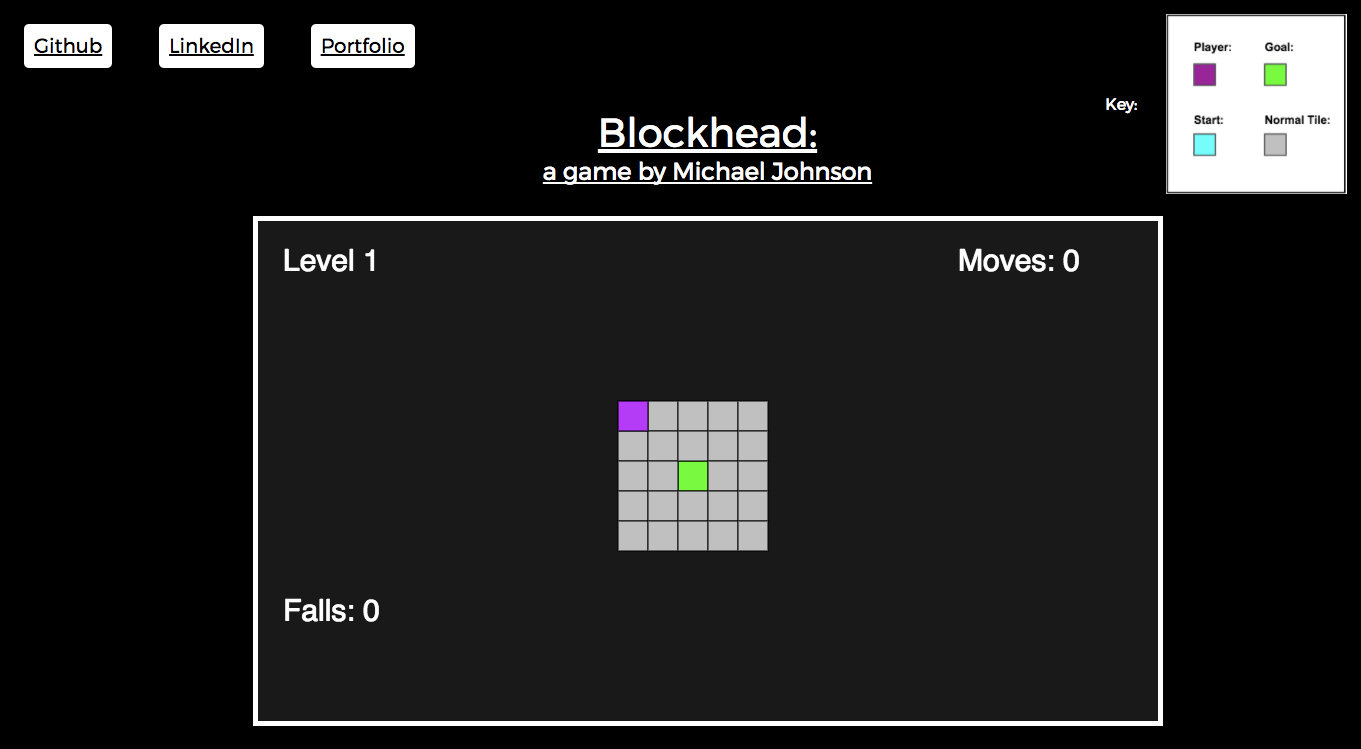
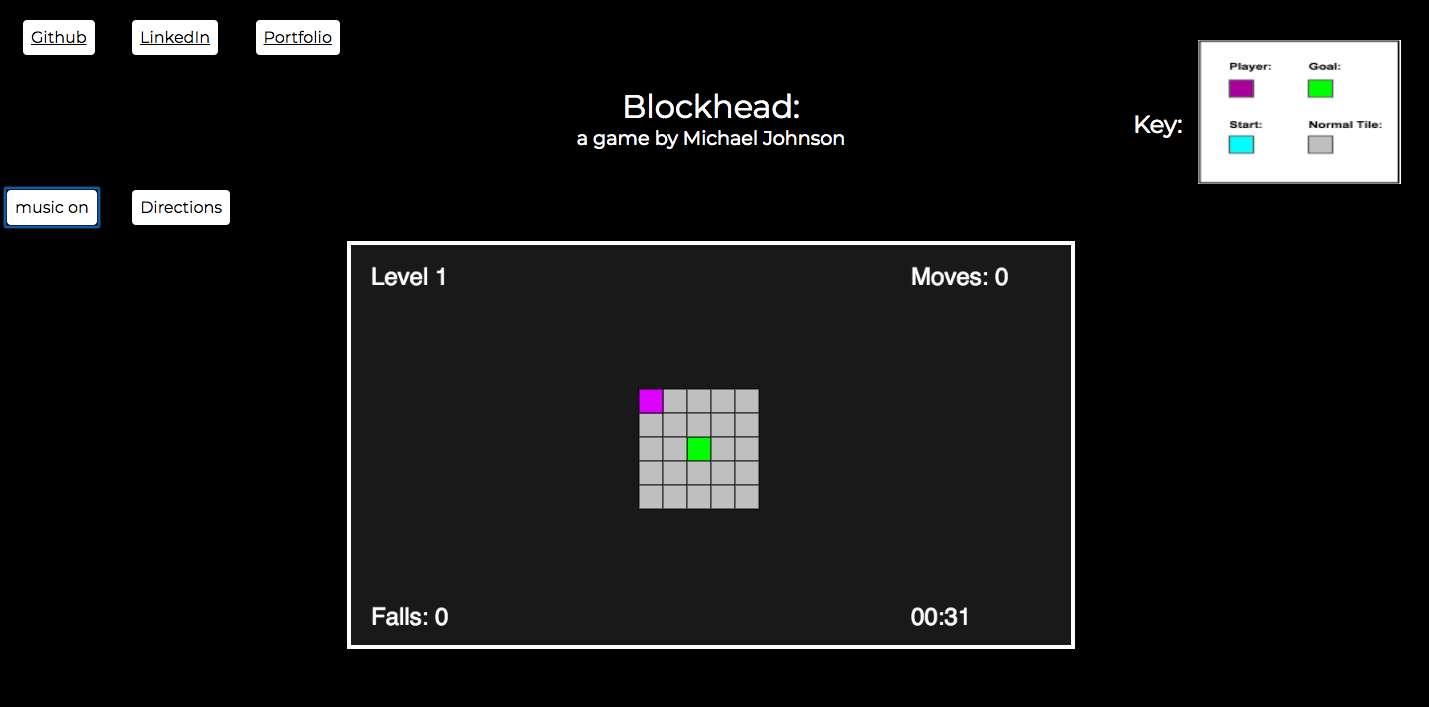
Update readme to reflect current state of project

diff --git a/README.md b/README.md
@@ -2,70 +2,51 @@
 
 ### Background:
 
-Blockhead is a game that is based on the 3D puzzle game bloxors, in which the players must move a rectangular prism across a board into a hole. The main difference with this game is that the view will be strictly overhead.
+Blockhead is a game that is based on the 3D puzzle game bloxors, in which the players must move a rectangular prism across a board into a hole. The main difference with this game is the 2D overhead perspective.
 
-### Functionality & MVP:
-
-Blockhead
-
-- [x] Render tiles to the screen
-- [x] Make block movable with arrow keys
-- [x] Block falls off board if not set on tiles, resetting level
-- [x] Counters track number of falls and move for current game session.
-- [x] Level changes when goal is reached
+- Controls: Move the block with arrow keys
+- Counters are set for the current level as well as the time and total number of moves and falls for a current game session.
 
 ### Architecture and Technologies:
 
 - 'JavaScript' (game logic)
 - 'Canvas' (rendering of board tiles and block)
 - 'Webpack' (bundling files together)
-- 'Sass' (styling page)
+- 'SASS' (styling page)
 
-#### The game will require the following files:
+### File Structure:
 
-- 'display.js' to handle rendering of the game.
-- 'game.js' to handle the rules of the game.
-- 'levels.js' to store information on level progression and floor layouts. Serves as a bundle for all levels.
-  + Each level will have its own file detailing the exact position and nature of each tile.
-- 'tile.js' to store information on each tile and update them independently.
-- 'block.js' (player) to handle the movement logic for the block.
-- 'blockhead.js' to start the game and serve as the entry file.
+- **blockhead.js**, the root file for the game.
+- **display.js** to handle rendering.
+- **block.js** to handle the movement and transformations of the player block.
+- **sound.js** to control when sound effects and music play.
+- **page_buttons.js** to handle all buttons on the page including sound and tutorial display.
+- **tile.js** to store information on individual floor tiles.
+- **level_generator.js** to store information on level progression and create floors consisting of tile objects. Serves as a bundle for all levels.
+  + Level and tile data are stored in the **levels** directory, one file for each level with data for each tile making up a floor.
+- **game.js** to handle the rules of the game and bring other game files together.
 
-### Wireframes:
+### Screenshot:
 
 ![wireframe](./assets/Images/BlockHead.png)
 
-The app is contained in one screen with nav links to my Github and LinkedIn in the top left corner. The block is controlled with the arrow keys, and in the game players can move the block with the arrow keys. Instructions are provided on the bottom of the page for the player's convenience.
+Level files consist of arrays of objects, with each object consisting of data for a tile object. Tile objects are organized like a grid, with each grouping of objects corresponding to tiles in the same column (save for the start and goal tile). Length is a constant dictating the size of the tiles and block to allow for easy resizing.
 
-### Implementation Timeline:
+``` JavaScript
+const levelOne = (length, startX = 330, startY = 240) => {
+  return(
+    [
+      { x: startX, y: startY, type: "start" },
+      { x: startX + length * 6, y: startY + length * 3, type: "goal" },
 
-**Day 1:** Setup the project. Set up Webpack, specifying entry and exit files. Establish project structure: place files into assets folder organized as such:
-- CSS/
-  + modules/
-  + partials/
-  + main.scss
-  + output.css
-- Images/
-- Sounds/
-- JavaScript/
-  + bundle/
-  + levels/
-  + display.js
-  + game.js
-  + levels.js
-  + tile.js
-  + block.js
-  + blockhead.js
-The rest of the day will be spent learning how Canvas handles rendering. Write 'blockhead.js' and start writing 'game.js' and 'display.js'
-
-**Day 2:** Render the board and movable block. Figure out how the block's size and position change depending on its current shape.
-  * First, render a single floor tile to the canvas.
-  * Render an entire level next.
-    + Levels are designed to be flexible and modular in nature. In the interest of making floor positions and sizes adjustable every tile's position is defined relative to a starting tile.
-    + Levels consist of arrays with objects detailing each tile's position and properties (goal, start, etc.)
-    + A level generator function then creates an array of tile objects with properties defined by each object in the level array:
-
+      { x: startX - length, y: startY - length, type: "none" },
+      { x: startX - length, y: startY, type: "none" },
+      { x: startX - length, y: startY + length, type: "none" },
 ```
+
+Level Data is fed to the level generator, which takes each level array and constructs arrays of tile objects to track floor information during play.
+
+``` JavaScript
 const levelGenerator = (length) => {
   const levels = [Tutorial(length),
                      LevelOne(length),
@@ -78,47 +59,12 @@ const levelGenerator = (length) => {
   });
   return levels;
 };
-
-// Level files are organized like a grid, with each grouping of objects corresponding to tiles in the same column. Length is a constant dictating the size of the tiles and block.
-
-const levelOne = (length, startX = 330, startY = 240) => {
-  return(
-    [
-      { x: startX, y: startY, type: "start" },
-      { x: startX + length * 6, y: startY + length * 3, type: "goal" },
-
-      { x: startX - length, y: startY - length, type: "none" },
-      { x: startX - length, y: startY, type: "none" },
-      { x: startX - length, y: startY + length, type: "none" },
 ```
 
-  * The block's movement patterns are complex and as such should be handled by the block directly.
+### Future Features:
 
-**Day 3:** Set rules for block falling off board reaching goal.
-  * Once the block is moving properly the block needs to be bound to the floor.
-  * The simplest way to handle this is with the getImageData property of the canvas context. This consists of an array of RGB values for every pixel over a given area.
-  * By setting the background to a different RGB value than the floor we can check a block's status by evaluating the RGB values of its new position prior to re-rendering.
-  * Evaluating every pixel of the block's new position is a intensive process and unnecessary; instead we can determine a block's status just by evaluating the RGB values at the block's corners:
+[ ] 'Make floor destructible:' Normal tiles will disappear after being stepped on x times. The current steps remaining on a tile will be marked by a number.
 
-```
-tileMovesOffFloor(coordinates) {
-  for(let i = 0; i < coordinates.length; i++) {
-    let corner = coordinates[i];
-    let point = this.ctx.getImageData(corner[0], corner[1], 1, 1);
-    let colorData = point.data.slice(0, 3);
-    let color = this.stringifyRGB(colorData);
-    if (color === this.backgroundColor) {
-      return true;
-    }
-  }
-  return false;
-}
-```
+[ ] 'Other tile types:' The original game has multiple tiles with functionalities such as switches, different weight-bearing capacities, teleportation, etc.
 
- * In the event the block moves off the stage its position will be reset to the start tile.
-
-### Bonus Features:
-
-- [ ] 'Make floor destructible:' Normal tiles will disappear after being stepped on x times. The current steps remaining on a tile will be marked by a number.
-- [ ] 'Other tile types:' The original game has multiple tiles with functionalities such as switches, different weight-bearing capacities, teleportation, etc.
-- [ ] 'Score tracker:' The original game tracks the number of moves a player has taken. It would make for a fun competition if, in addition to tracking a player's current score the game ranked players.
+[ ] 'Score tracker:' The original game tracks the number of moves a player has taken. It would make for a fun competition if, in addition to tracking a player's current score the game ranked players. I've considered Firebase as a possible server option.
